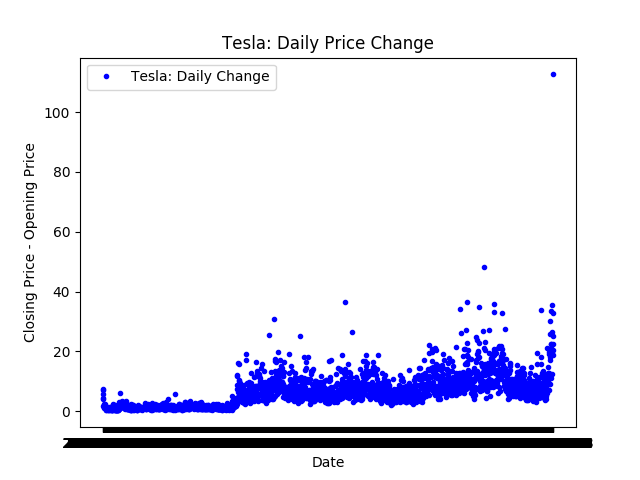
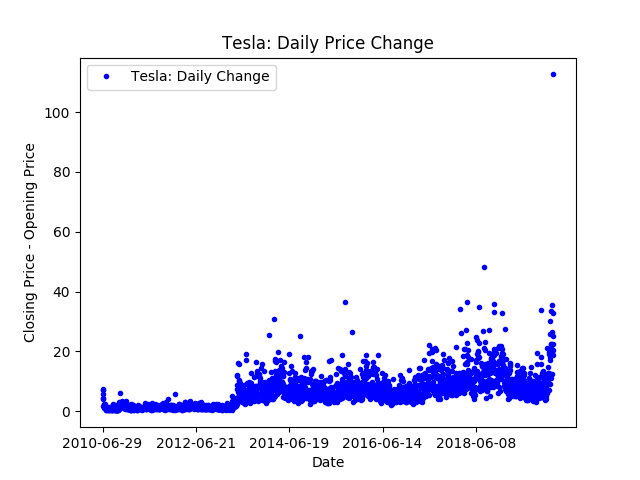
improving visuals

Changed region(s): [[0.0938, 0.875, 0.9375, 0.9375]]

diff --git a/tesla2.py b/tesla2.py
@@ -154,14 +154,14 @@ def pred_res(regressor_mae, bPar, sc, X_all, y_all, target_dir, pre_name, points
         plt.scatter( range(1, 1+len(X_plot)), y_hat_linear1[0 : ].astype(float), color = 'green', alpha = 0.1, label = '1-Day Predicted Change')
         plt.scatter( range(0, len(X_plot)), X_plot, color = 'red', alpha = 0.1, label = 'Real Change')
         plt.title('Predicted vs Real Daily Price Change')
-        plt.xlabel('Time')
+        plt.xlabel('Market Days After IPO')
         plt.ylabel('Closing - Opening Price')
     else:
         plt.plot( range(15 + 750, 15+len(X_plot)), y_hat_linear15[750 : ].astype(float), color = 'blue', label = '15-day prediction')
         plt.plot( range(30 + 750, 30+len(X_plot)), y_hat_linear30[750 : ].astype(float), color = 'green', label = '30-day prediction')
         plt.plot( range(0 + 750, len(X_plot)), X_plot[750:], color = 'red', label = 'Real Tesla Stock Price')
         plt.title('Predicted vs Real Prices')
-        plt.xlabel('Time')
+        plt.xlabel('Market Days After IPO')
         plt.ylabel('Tesla Stock Price')
     plt.axvline(x = bPar['train_end'] - bPar['train_start'])
     plt.axvline(x = bPar['test_end'] - bPar['train_start'])
@@ -171,7 +171,7 @@ def pred_res(regressor_mae, bPar, sc, X_all, y_all, target_dir, pre_name, points
     plt.text(x = (bPar['future_start'] *2 + bPar['future_end'])/3, y = .20, s = 'future')
 
     plt.title('Predicted vs Real Prices')
-    plt.xlabel('Time')
+    plt.xlabel('Market Days After IPO')
     plt.ylabel('Tesla Stock Price')
     plt.legend()
 
@@ -183,9 +183,10 @@ def pred_res(regressor_mae, bPar, sc, X_all, y_all, target_dir, pre_name, points
 
     plt.close()
 
-    plt.scatter( range(0, len(res30) ), res30, color = 'green', label = 'residuals for Stateful LSTM')
+    #Residuals
+    plt.scatter( range(0 + bPar['test_start'], bPar['test_start'] +  len(res30) ), res30, color = 'green', label = 'residuals for Stateful LSTM')
     plt.title('Residuals for Stateful LSTM Predicting Tesla Stock Price')
-    plt.xlabel('Time')
+    plt.xlabel('Market Days After IPO')
     plt.ylabel('Residuals')
 
     f_name0 = pre_name + 'Residuals.png'
@@ -214,6 +215,7 @@ target_dir = os.path.join(this_dir, 'TSLA_Visuals/General_Stock_Price.png')
 
 plt.plot_date(TSLA.date, TSLA.close, fmt = '-r', label = 'TESLA Stock Price')
 plt.title('TESLA stock price over time')
+plt.xticks(TSLA.date[0:len(TSLA):500])
 plt.xlabel('Time (Days)')
 plt.ylabel('Tesla price (open, high, low, close)')
 plt.legend()
@@ -225,6 +227,7 @@ target_dir = os.path.join(this_dir, 'TSLA_Visuals/General_Daily_Change')
 
 plt.plot_date(TSLA.date, TSLA.day_range, fmt = '.b', label = 'Tesla: Daily Change')
 plt.title('Tesla: Daily Price Change')
+plt.xticks(TSLA.date[0:len(TSLA):500])
 plt.xlabel('Date')
 plt.ylabel('Closing Price - Opening Price')
 plt.legend()
